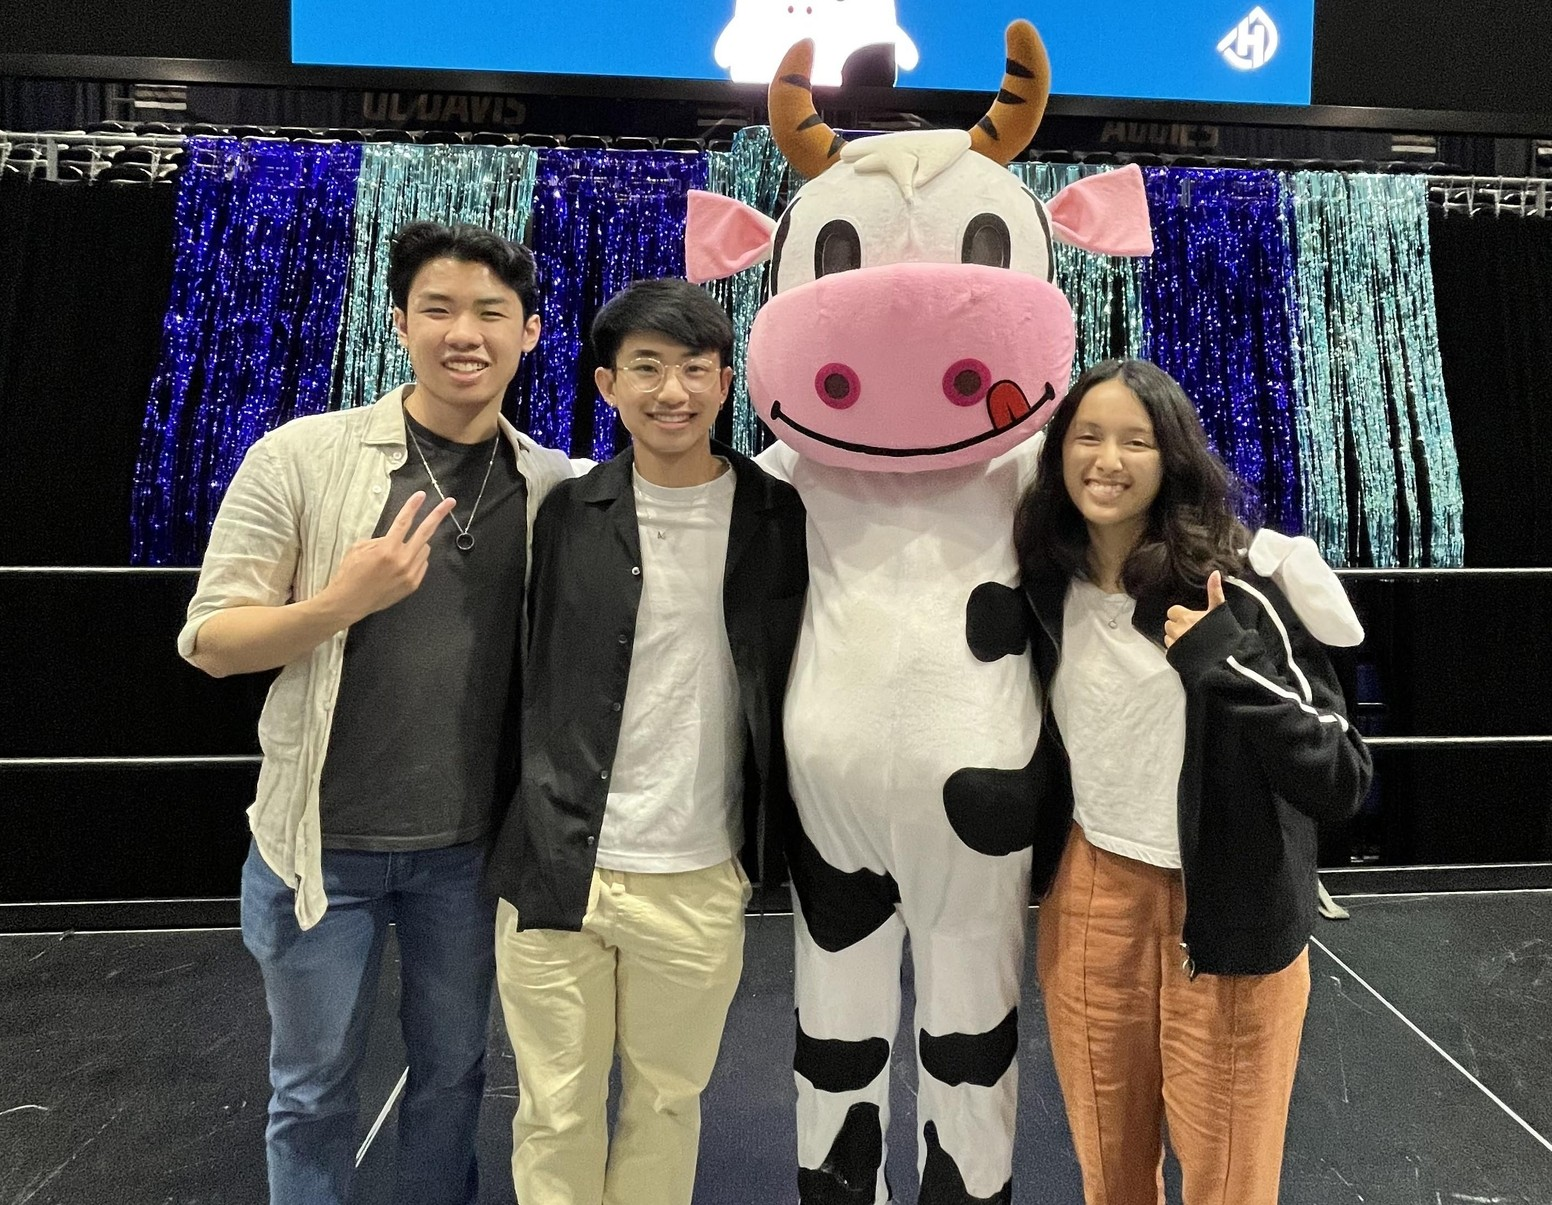
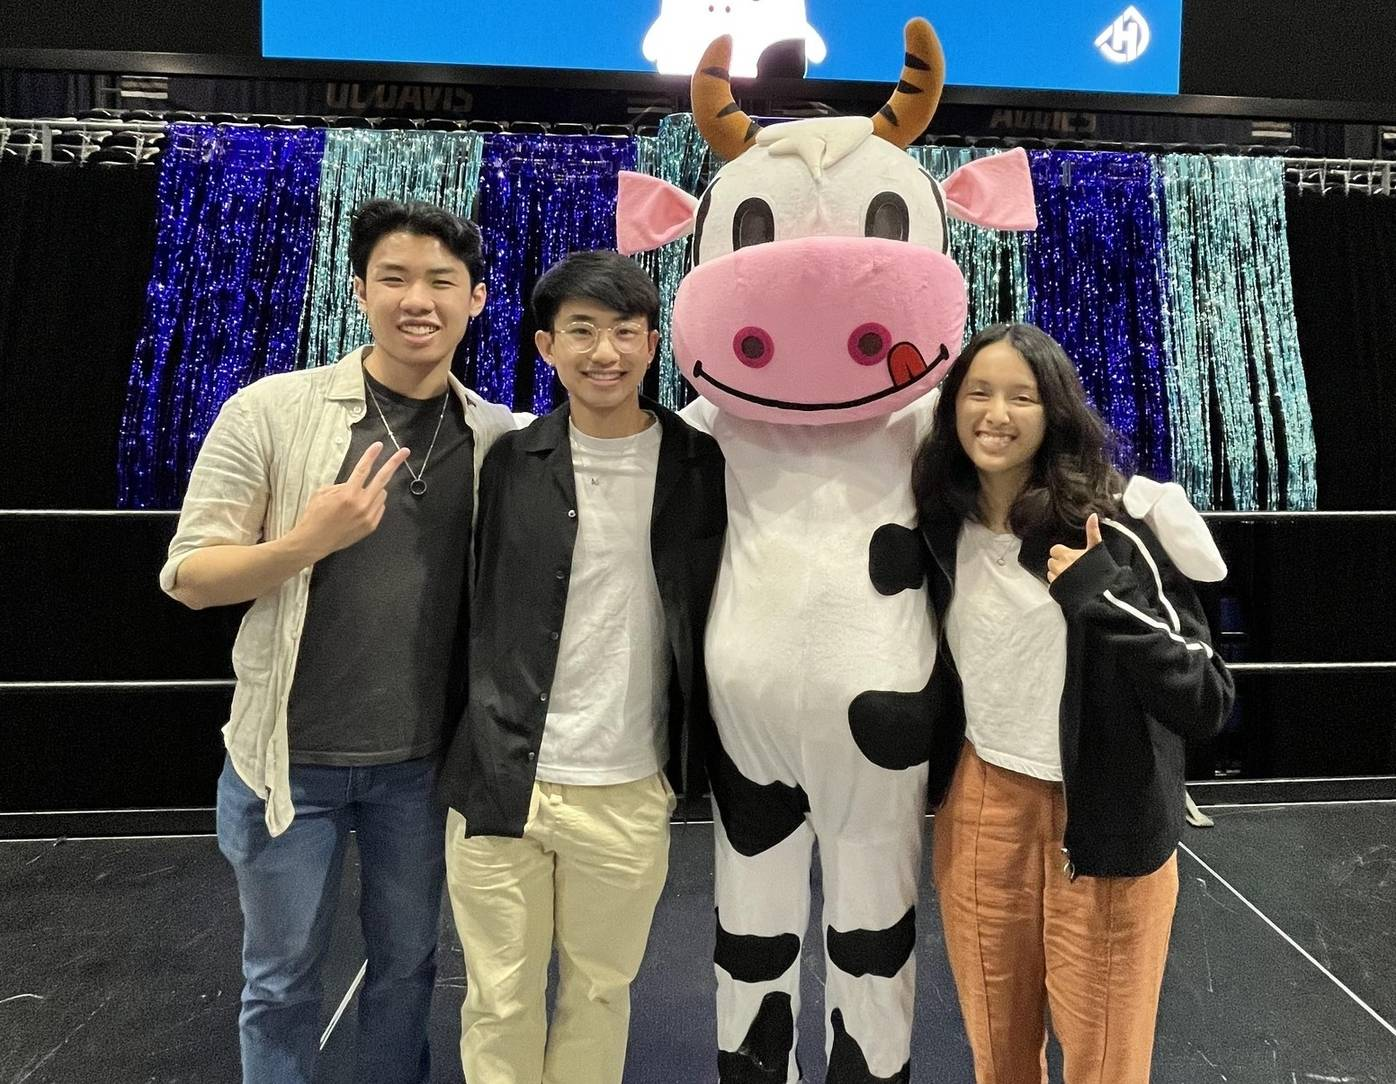
shrink resolution img about

diff --git a/about.html b/about.html
@@ -164,15 +164,15 @@
             </div>
   
             <div class="item">
-              <img src="img/teams/sp23-cohort.jpg" />
+              <img src="img/teams/sp23-cohort.jpeg" />
             </div>
   
             <div class="item">
-              <img src="img/teams/oasis_team2023.JPG" />
+              <img src="img/teams/oasis_team2023.jpeg" />
             </div>
   
             <div class="item">
-              <img src="img/teams/MESA2023.jpg" />
+              <img src="img/teams/MESA2023.jpeg" />
             </div>
   
             <div class="item">
@@ -180,11 +180,11 @@
             </div>
   
             <div class="item">
-              <img src="img/teams/oasis_team2024.jpg" />
+              <img src="img/teams/oasis_team2024.jpeg" />
             </div>
   
             <div class="item prev">
-              <img src="img/teams/grad2024.JPG" />
+              <img src="img/teams/grad2024.jpeg" />
             </div>
 
             <!-- Button Left/Right -->
